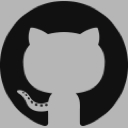
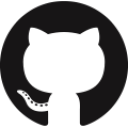
設定ページを作成
- 設定ページのロード処理を50％作成
- Materializeというライブラリを追加
- アイコンが透過していなかったので変更

diff --git a/html/option_page.html b/html/option_page.html
@@ -1,0 +1,117 @@
+  <!DOCTYPE html>
+  <html>
+    <head>
+      <link type="text/css" rel="stylesheet" href="../bower_components/materialize/dist/css/materialize.min.css"/>
+      <link type="text/css" rel="stylesheet" href="../css/option_page.css"/>
+    </head>
+    <body class="grey lighten-5">
+      <header>
+        <div class="container">
+          <h2>GitHub Issue Template Option Page</h2>
+        </div>
+      </header>
+        
+      <div class="container">
+        <section class="section section-general">
+          <h3>General</h3>
+          <a class="waves-effect waves-light btn btn-add"><i class="mdi-content-add left"></i>Add</a>
+          <table class="bordered settings settings-genaral">
+            <thead>
+              <tr>
+                <th>Repository</th>
+                <th class="th-displayName">Display Name</th>
+                <th>Labels / Templates</th>
+                <th class="th-delete"></th>
+              </tr>
+            </thead>
+            <tbody>
+              <tr class="template">
+                <td>
+                  <input class="settings--repo" type="text" name="repo" value="" placeholder="Repository">
+                </td>
+                <td>
+                  <input class="settings--dispName" type="text" name="name" value="" placeholder="Display Name">
+                </td>
+                <td>
+                  <table class="settings settings-kv">
+                    <tbody>
+                      <tr class="template">
+                        <td class="td-icon">
+                          <a class="btn-flat waves-effect waves-teal btn-addInTr btn-icon">
+                            <i class="mdi-content-add"></i>
+                          </a>
+                        </td>
+                        <td>
+                          <input class="settings--label" type="text" name="label" value="" placeholder="label">
+                        </td>
+                        <td class="th-templateSelect">
+                          <select class="browser-default settings--templateSelect" name="templateSelect">
+                            <option value="" disabled>Choose Template</option>
+                          </select>
+                        </td>
+                        <td class="td-icon">
+                          <a class="btn-flat waves-effect waves-red btn-remove btn-icon">
+                            <i class="mdi-content-clear"></i>
+                          </a>
+                        </td>
+                      </tr>
+                    </tbody>
+                  </table>
+                </td>
+                <td>
+                 <a class="waves-effect waves-light btn btn-floating btn-remove red"><i class="mdi-action-delete"></i></a>
+                </td>
+              </tr>
+            </tbody>
+          </table>
+        </section>
+
+        <section class="section section-template">
+          <h3>Templates</h3>
+          <a class="waves-effect waves-light btn btn-add"><i class="mdi-content-add left"></i>Add</a>
+          <table class="bordered settings settings-templates">
+            <thead>
+              <th>Template Name</th>
+              <th>Tempate</th>
+              <th class="th-delete"></th>
+            </thead>
+            <tbody>
+              <tr class="template">
+                <td>
+                  <input class="settings--templateName" type="text" name="repo" value="" placeholder="Template Name">
+                </td>
+                <td>
+                  <textarea class="setitngs--template" name="template" rows="5"></textarea>
+                </td>
+                <td>
+                   <a class="waves-effect waves-light btn btn-floating btn-remove red"><i class="mdi-action-delete"></i></a>
+                </td>
+              </tr>
+            </tbody>
+          </table>
+        </section>
+      </div>
+      
+      <div class="save-area">
+        <div class="container">
+          <a class="waves-effect waves-light btn-large btn-save"><i class="mdi-content-save left"></i>Save</a>
+          <a class="waves-effect waves-light btn-large btn-reset blue-grey"><i class="mdi-content-undo left"></i>Reset</a>
+        </div>
+      </div>
+      
+      <footer class="page-footer">
+        <div class="footer-copyright">
+          <div class="container">
+          © Created by <a href="https://github.com/deepblue-will/github-template" target="_blank" rel="nofollow">deepblue-will</a>
+          <span class="grey-text text-lighten-4 right">
+            Use <a href="http://materializecss.com/" class="grey-text text-lighten-4" target="_blank">Materialize</a>
+          </span>
+          </div>
+        </div>
+      </footer>
+      <script type="text/javascript" src="../bower_components/jQuery/dist/jquery.min.js"></script>
+      <script type="text/javascript" src="../bower_components/materialize/dist/js/materialize.min.js"></script>
+      <script type="text/javascript" src="../js/default_value.js"></script>
+      <script type="text/javascript" src="../js/option_page.js"></script>
+    </body>
+  </html>

diff --git a/js/option_page.js b/js/option_page.js
@@ -1,0 +1,97 @@
+$(function(){
+  chrome.storage.sync.get("github-issue-template", function(storageData) {
+    var data = DEFAULT_VALUE;
+    if(Object.keys(storageData).length > 0){
+      data = storageData;
+    }
+    
+    load(data["github-issue-template"]);
+  });
+
+  // add line
+  $(".btn-add").click(function() {
+    addTr($(this).next(), function($template) {
+      if($template.find(".settings-kv")[0]) {
+        addTr($template.find(".settings-kv"))
+      }
+    });
+  });
+  $(document).on("click", ".btn-addInTr", function() {
+    var $table = $(this).parent().parent().parent().parent();
+    addTrWithRemoveBtn($table, ".btn-addInTr");
+  });
+  
+  // remove line
+  $(document).on("click", ".btn-remove", function() {
+    var $tr = $(this).parent().parent();
+    $tr.remove();
+  });
+  
+  
+  $(".btn-save").click(function() {
+    var data = {};
+    chrome.storage.sync.set(data, function(){
+      toast("Saved.", 2000);
+    });
+  });
+  
+  $(".btn-reset").click(function() {
+    chrome.storage.sync.clear(function(){
+      load(DEFAULT_VALUE);
+      toast("Reset", 2000);
+    });
+  });
+  
+  function load(data) {
+    $tableGeneral = $(".settings-genaral");
+    updateTemplateSelect($tableGeneral.find(".template").find(".settings--templateSelect"), Object.keys(data.templates));
+    data.general.forEach(function (g) {
+      addTr($tableGeneral, function($template) {
+        $template.find(".settings--repo").val(g.repo);
+        $template.find(".settings--dispName").val(g.dispName);
+        var $tableKv = $template.find(".settings-kv");
+        var templateKeys = Object.keys(data.templates);
+        if(templateKeys.length > 0) {
+          templateKeys.forEach(function(k, i) {
+            var applyLabelTemplate = function ($template) {
+              $template.find(".settings--label").val(k);
+              $template.find(".settings--templateSelect").val(data.templates[k]);
+            };
+            i === 0 ? addTr($tableKv, applyLabelTemplate) : addTrWithRemoveBtn($tableKv, ".btn-addInTr", applyLabelTemplate);
+          });
+        } else {
+          addTr($tableKv);
+        }
+      });
+    });
+  }
+  
+  function updateTemplateSelect($select, templateKeys) {
+    templateKeys.forEach(function(k) {
+      var $option = $select.find("option:first-child").clone();
+      $option.val(k);
+      $option.text(k);
+      $option.attr("disabled", false);
+      $select.append($option);
+    });
+  }
+  
+  function addTr($table, callback) {
+    var $template = $table.find("> tbody > .template").clone();
+    if(typeof callback === "function") {
+      callback($template);
+    }
+    
+    $table.find("> tbody").append($template);
+    $template.addClass('tr-added').removeClass('template');
+  }
+  
+  function addTrWithRemoveBtn($table, btnClass, callback) {
+    addTr($table, function($template) {
+      $template.find(btnClass).remove();
+      if(typeof callback === "function") {
+        callback($template);
+      }
+    });
+  }
+});

diff --git a/html/popup.html b/html/popup.html
@@ -9,27 +9,29 @@
   <table class="menu">
     <tr class="menu--item menu--item-template">
       <td class="menu--repoName"></td>
-      <td class="menu--tags">
-        <select class="menu--tagSelect"></select>
+      <td class="menu--labels">
+        <select class="menu--labelSelect">
+          <option value=""></option>
+        </select>
       </td>
       <td class="menu--link"><a class="menu--btn">New Issue</a></td>
     </tr>
     <tr class="menu--item">
       <td class="menu--repoName">deepblue-will/github-test</td>
-      <td class="menu--tags">
-        <select class="menu--tagSelect">
+      <td class="menu--labels">
+        <select class="menu--labelSelect">
           <option value="feature">feature</option>
-          <option value="feature">bug</option>
+          <option value="bug">bug</option>
         </select>
       </td>
       <td class="menu--link"><a class="menu--btn">New Issue</a></td>
     </tr>
     <tr class="menu--item">
       <td class="menu--repoName">deepblue-will/github-test2</td>
-      <td class="menu--tags">
-        <select class="menu--tagSelect">
+      <td class="menu--labels">
+        <select class="menu--labelSelect">
           <option value="feature">feature</option>
-          <option value="feature">bug</option>
+          <option value="bug">bug</option>
         </select>
       </td>
       <td class="menu--link"><a class="menu--btn">New Issue</a></td>

diff --git a/js/popup.js b/js/popup.js
@@ -1,0 +1,16 @@
+$(function(){
+  GITHUB_ISSUE_URL = "https://github.com/{repo}/issues/new?labels={label}&body={body}&assignee={assignee}";
+
+  $(".menu--btn").on('click', function(){
+    $menuItem = $(this).parents(".menu--item");
+    
+    repo = $menuItem.find(".menu--repoName").text();
+    label = $menuItem.find(".menu--labelSelect").val();
+    body = encodeURIComponent("## 概要¥n¥n## 詳細¥n¥n## 関連するissue¥n¥n");
+    assignee = "deepblue-will";
+    
+    url = GITHUB_ISSUE_URL.replace("{repo}", repo).replace("{label}", label).replace("{body}", body).replace("{assignee}", assignee);
+    
+    chrome.tabs.create({url: url});
+  });
+});

diff --git a/css/popup.css b/css/popup.css
@@ -1,32 +1,33 @@
 body {
   color: #333;
   font-size: 14px;
+  margin: 0;
 }
 
 .menu {
   width: 450px;
+  border-collapse: collapse;
 }
 .menu--item td {
   padding: 6px 6px 9px;
   border-bottom: 1px dashed #bbb;
 }
-.menu--item:first-child td {
-  padding-top: 0;
-}
 .menu--item:last-child td {
-  padding-bottom: 0;
   border-bottom: 0
 }
-.menu--tags {
+.menu--item:nth-child(odd) td {
+  background: #f6f6f6;
+}
+.menu--labels {
   width: 130px;
 }
-.menu--tagSelect {
+.menu--labelSelect {
   background-color: #fff;
   width: 130px;
   height: 30px;
 }
 .menu--link {
-  width: 110px;
+  width: 95px;
 }
 .menu--btn {
   position: relative;

diff --git a/css/option_page.css b/css/option_page.css
@@ -1,0 +1,36 @@
+textarea {
+  outline: none;
+  border: 1px solid #9e9e9e;
+  height: auto;
+  transition: .3s;
+  font-size: 1rem;
+  resize: vertical;
+}
+textarea:focus {
+  border-color: #26a69a;
+}
+
+.template {
+  display: none;
+}
+table .btn, 
+table .btn-flat {
+  margin-bottom: 0;
+}
+
+.settings .settings-kv tr {
+  border-bottom: 0;
+}
+.th-delete {
+  width: 37px;
+}
+.td-icon {
+  width: 37px;
+}
+.th-templateSelect {
+  min-width: 180px;
+}
+.btn-flat.btn-icon {
+  padding-left: 12px;
+  padding-right: 12px;
+}

diff --git a/js/default_value.js b/js/default_value.js
@@ -1,0 +1,18 @@
+const DEFAULT_VALUE = {
+  "github-issue-template": {
+    general: [
+      {
+        repo: "deepblue/github-template",
+        dispName: "github-template",
+        templates : {
+          feature: "feature",
+          bug: "bug"
+        }
+      }
+    ],
+    templates: {
+      feature: "## 概要¥n¥n ## 期待する動作¥n¥n## 関連するissue¥n¥n",
+      bug: "## 概要¥n¥n ## 再現手順¥n¥n## ログ¥n¥n## 修正方法¥n¥n## 関連するissue¥n¥n"
+    }
+  }
+}
